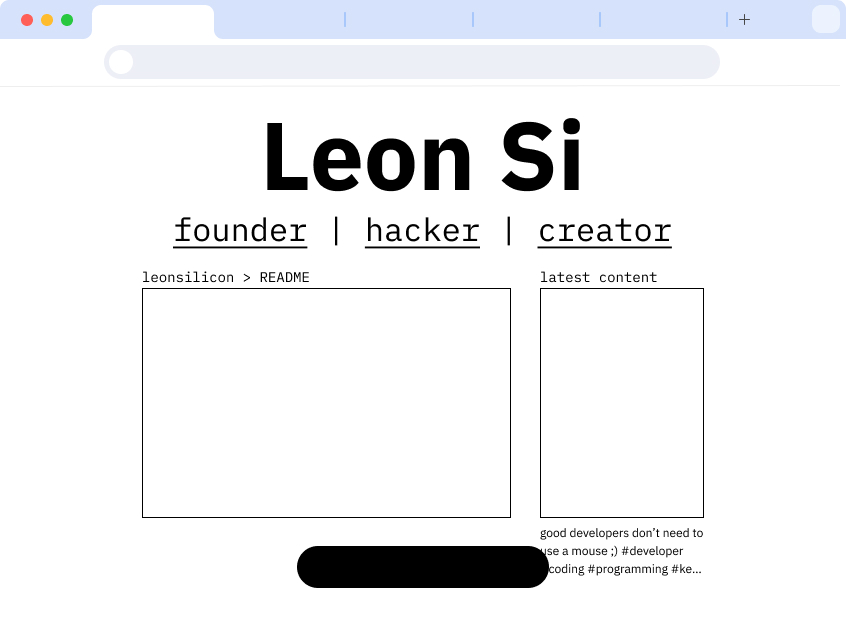
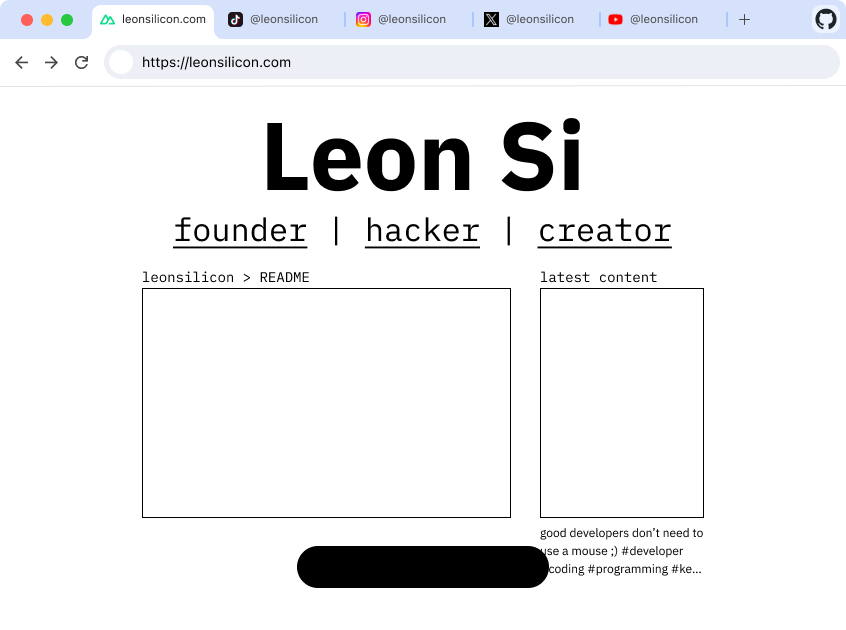
chore: update readme

diff --git a/generator/readme.md b/generator/readme.md
@@ -1,1 +1,1 @@
-<picture><img src="https://raw.githubusercontent.com/leonsilicon/leonsilicon/main/generator/generated/000.6d7290b.jpg" height="39" width="2.4822695035460995%"/></picture><a href="#"><img src="https://raw.githubusercontent.com/leonsilicon/leonsilicon/main/generator/generated/001.45e0808.jpg" height="39" width="1.4184397163120568%"/></a><picture><img src="https://raw.githubusercontent.com/leonsilicon/leonsilicon/main/generator/generated/002.560fbb9.jpg" height="39" width="0.9456264775413712%"/></picture><a href="#"><img src="https://raw.githubusercontent.com/leonsilicon/leonsilicon/main/generator/generated/003.b02b5b0.jpg" height="39" width="1.4184397163120568%"/></a><picture><img src="https://raw.githubusercontent.com/leonsilicon/leonsilicon/main/generator/generated/004.d4cba37.jpg" height="39" width="0.9456264775413712%"/></picture><a href="#"><img src="https://raw.githubusercontent.com/leonsilicon/leonsilicon/main/generator/generated/005.43a4f1b.jpg" height="39" width="1.4184397163120568%"/></a><picture><img src="https://raw.githubusercontent.com/leonsilicon/leonsilicon/main/generator/generated/006.33cbce5.jpg" height="39" width="2.2458628841607564%"/></picture><a href="https://leonsilicon.com"><img src="https://raw.githubusercontent.com/leonsilicon/leonsilicon/main/generator/generated/007.bdda48e.jpg" height="39" width="14.420803782505912%"/></a><a href="https://tiktok.com/@leonsilicon"><img src="https://raw.githubusercontent.com/leonsilicon/leonsilicon/main/generator/generated/008.785908c.jpg" height="39" width="14.420803782505912%"/></a><picture><img src="https://raw.githubusercontent.com/leonsilicon/leonsilicon/main/generator/generated/009.0d70887.jpg" height="39" width="1.1820330969267139%"/></picture><a href="https://instagram.com/leonsilicon"><img src="https://raw.githubusercontent.com/leonsilicon/leonsilicon/main/generator/generated/010.ebcfdea.jpg" height="39" width="14.893617021276595%"/></a><picture><img src="https://raw.githubusercontent.com/leonsilicon/leonsilicon/main/generator/generated/011.eb00893.jpg" height="39" width="0.2364066193853428%"/></picture><a href="https://x.com/leonsilicon"><img src="https://raw.githubusercontent.com/leonsilicon/leonsilicon/main/generator/generated/012.cc10865.jpg" height="39" width="14.775413711583923%"/></a><picture><img src="https://raw.githubusercontent.com/leonsilicon/leonsilicon/main/generator/generated/013.4300ced.jpg" height="39" width="0.2364066193853428%"/></picture><a href="https://youtube.com/@leonsilicon"><img src="https://raw.githubusercontent.com/leonsilicon/leonsilicon/main/generator/generated/014.def1ffd.jpg" height="39" width="14.775413711583923%"/></a><picture><img src="https://raw.githubusercontent.com/leonsilicon/leonsilicon/main/generator/generated/015.4031534.jpg" height="39" width="10.16548463356974%"/></picture><a href="https://github.com/leonsilicon/leonsilicon/main/generator"><img src="https://raw.githubusercontent.com/leonsilicon/leonsilicon/main/generator/generated/016.fcc2d73.jpg" height="39" width="3.309692671394799%"/></a><picture><img src="https://raw.githubusercontent.com/leonsilicon/leonsilicon/main/generator/generated/017.1d18d56.jpg" height="39" width="0.7092198581560284%"/></picture><picture><img src="https://raw.githubusercontent.com/leonsilicon/leonsilicon/main/generator/generated/018.ef65d5a.jpg" height="34" width="100%"/></picture><picture><img src="https://raw.githubusercontent.com/leonsilicon/leonsilicon/main/generator/generated/019.fe868b0.jpg" height="177" width="100%"/></picture><picture><img src="https://raw.githubusercontent.com/leonsilicon/leonsilicon/main/generator/generated/020.6c864e5.jpg" height="250" width="16.78486997635934%"/></picture><a href="https://github.com/leonsilicon/leonsilicon/README"><img src="https://raw.githubusercontent.com/leonsilicon/leonsilicon/main/generator/generated/021.2f4b12f.jpg" height="250" width="43.61702127659575%"/></a><picture><img src="https://raw.githubusercontent.com/leonsilicon/leonsilicon/main/generator/generated/022.cc7e655.jpg" height="250" width="3.4278959810874707%"/></picture><a href="${TIKTOK_URL}"><img src="https://raw.githubusercontent.com/leonsilicon/leonsilicon/main/generator/generated/023.f8ba553.jpg" height="250" width="19.38534278959811%"/></a><picture><img src="https://raw.githubusercontent.com/leonsilicon/leonsilicon/main/generator/generated/024.6c864e5.jpg" height="250" width="16.78486997635934%"/></picture><picture><img src="https://raw.githubusercontent.com/leonsilicon/leonsilicon/main/generator/generated/025.3dcab01.jpg" height="16" width="63.829787234042556%"/></picture><a href="${TIKTOK_URL}"><img src="https://raw.githubusercontent.com/leonsilicon/leonsilicon/main/generator/generated/026.ee2dcb7.jpg" height="16" width="19.38534278959811%"/></a><picture><img src="https://raw.githubusercontent.com/leonsilicon/leonsilicon/main/generator/generated/027.8f7a892.jpg" height="16" width="16.78486997635934%"/></picture><picture><img src="https://raw.githubusercontent.com/leonsilicon/leonsilicon/main/generator/generated/028.69a63a4.jpg" height="42" width="100%"/></picture>
+<picture><img src="https://raw.githubusercontent.com/leonsilicon/leonsilicon/main/generator/generated/000.6d7290b.jpg" height="39" width="2.4822695035460995%"/></picture><a href="#"><img src="https://raw.githubusercontent.com/leonsilicon/leonsilicon/main/generator/generated/001.45e0808.jpg" height="39" width="1.4184397163120568%"/></a><picture><img src="https://raw.githubusercontent.com/leonsilicon/leonsilicon/main/generator/generated/002.560fbb9.jpg" height="39" width="0.9456264775413712%"/></picture><a href="#"><img src="https://raw.githubusercontent.com/leonsilicon/leonsilicon/main/generator/generated/003.b02b5b0.jpg" height="39" width="1.4184397163120568%"/></a><picture><img src="https://raw.githubusercontent.com/leonsilicon/leonsilicon/main/generator/generated/004.d4cba37.jpg" height="39" width="0.9456264775413712%"/></picture><a href="#"><img src="https://raw.githubusercontent.com/leonsilicon/leonsilicon/main/generator/generated/005.43a4f1b.jpg" height="39" width="1.4184397163120568%"/></a><picture><img src="https://raw.githubusercontent.com/leonsilicon/leonsilicon/main/generator/generated/006.33cbce5.jpg" height="39" width="2.2458628841607564%"/></picture><a href="https://leonsilicon.com"><img src="https://raw.githubusercontent.com/leonsilicon/leonsilicon/main/generator/generated/007.8727e1c.jpg" height="39" width="14.420803782505912%"/></a><a href="https://tiktok.com/@leonsilicon"><img src="https://raw.githubusercontent.com/leonsilicon/leonsilicon/main/generator/generated/008.b6b8eb8.jpg" height="39" width="14.420803782505912%"/></a><picture><img src="https://raw.githubusercontent.com/leonsilicon/leonsilicon/main/generator/generated/009.0d70887.jpg" height="39" width="1.1820330969267139%"/></picture><a href="https://instagram.com/leonsilicon"><img src="https://raw.githubusercontent.com/leonsilicon/leonsilicon/main/generator/generated/010.6c98e15.jpg" height="39" width="14.893617021276595%"/></a><picture><img src="https://raw.githubusercontent.com/leonsilicon/leonsilicon/main/generator/generated/011.eb00893.jpg" height="39" width="0.2364066193853428%"/></picture><a href="https://x.com/leonsilicon"><img src="https://raw.githubusercontent.com/leonsilicon/leonsilicon/main/generator/generated/012.60303a9.jpg" height="39" width="14.775413711583923%"/></a><picture><img src="https://raw.githubusercontent.com/leonsilicon/leonsilicon/main/generator/generated/013.4300ced.jpg" height="39" width="0.2364066193853428%"/></picture><a href="https://youtube.com/@leonsilicon"><img src="https://raw.githubusercontent.com/leonsilicon/leonsilicon/main/generator/generated/014.6bb6714.jpg" height="39" width="14.775413711583923%"/></a><picture><img src="https://raw.githubusercontent.com/leonsilicon/leonsilicon/main/generator/generated/015.4031534.jpg" height="39" width="10.16548463356974%"/></picture><a href="https://github.com/leonsilicon/leonsilicon/tree/main/generator"><img src="https://raw.githubusercontent.com/leonsilicon/leonsilicon/main/generator/generated/016.8bbbfdd.jpg" height="39" width="3.309692671394799%"/></a><picture><img src="https://raw.githubusercontent.com/leonsilicon/leonsilicon/main/generator/generated/017.1d18d56.jpg" height="39" width="0.7092198581560284%"/></picture><picture><img src="https://raw.githubusercontent.com/leonsilicon/leonsilicon/main/generator/generated/018.0d1f55f.jpg" height="34" width="100%"/></picture><picture><img src="https://raw.githubusercontent.com/leonsilicon/leonsilicon/main/generator/generated/019.77772f2.jpg" height="177" width="100%"/></picture><picture><img src="https://raw.githubusercontent.com/leonsilicon/leonsilicon/main/generator/generated/020.6c864e5.jpg" height="250" width="16.78486997635934%"/></picture><a href="https://github.com/leonsilicon/leonsilicon/README"><img src="https://raw.githubusercontent.com/leonsilicon/leonsilicon/main/generator/generated/021.2f4b12f.jpg" height="250" width="43.61702127659575%"/></a><picture><img src="https://raw.githubusercontent.com/leonsilicon/leonsilicon/main/generator/generated/022.cc7e655.jpg" height="250" width="3.4278959810874707%"/></picture><a href="${TIKTOK_URL}"><img src="https://raw.githubusercontent.com/leonsilicon/leonsilicon/main/generator/generated/023.f8ba553.jpg" height="250" width="19.38534278959811%"/></a><picture><img src="https://raw.githubusercontent.com/leonsilicon/leonsilicon/main/generator/generated/024.6c864e5.jpg" height="250" width="16.78486997635934%"/></picture><picture><img src="https://raw.githubusercontent.com/leonsilicon/leonsilicon/main/generator/generated/025.3dcab01.jpg" height="16" width="63.829787234042556%"/></picture><a href="${TIKTOK_URL}"><img src="https://raw.githubusercontent.com/leonsilicon/leonsilicon/main/generator/generated/026.ee2dcb7.jpg" height="16" width="19.38534278959811%"/></a><picture><img src="https://raw.githubusercontent.com/leonsilicon/leonsilicon/main/generator/generated/027.8f7a892.jpg" height="16" width="16.78486997635934%"/></picture><picture><img src="https://raw.githubusercontent.com/leonsilicon/leonsilicon/main/generator/generated/028.69a63a4.jpg" height="42" width="100%"/></picture>
